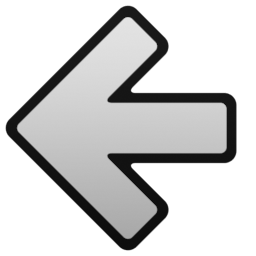
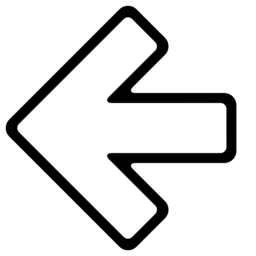
new PS sprites, prep for strikeline change

diff --git a/charm/lib/gamemodes/four_key.py b/charm/lib/gamemodes/four_key.py
@@ -34,6 +34,7 @@ class NoteType:
     DEATH = "death"
     HEAL = "heal"
     CAUTION = "caution"
+    STRIKELINE = "strikeline"
 
 
 class NoteColor:
@@ -180,7 +181,7 @@ class FourKeyHighway(Highway):
 
         self.strikeline = arcade.SpriteList()
         for i in [0, 1, 2, 3]:
-            sprite = FourKeyNoteSprite(FourKeyNote(self.chart, 0, i, 0), self, self.note_size)
+            sprite = FourKeyNoteSprite(FourKeyNote(self.chart, 0, i, 0, "strikeline"), self, self.note_size)
             sprite.top = self.strikeline_y
             sprite.left = self.lane_x(sprite.note.lane)
             sprite.alpha = 64
